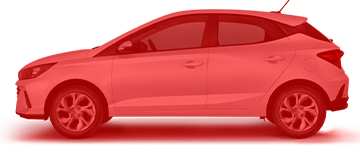
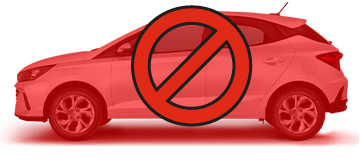
ok

diff --git a/src/Pages/DashboardPage/components/RepresentacaoCaminhaoGrande.js b/src/Pages/DashboardPage/components/RepresentacaoCaminhaoGrande.js
@@ -4,7 +4,8 @@ import * as React from 'react';
 
 export default function RepresentacaoCaminhaoGrande(props) {
 
-    const car_images = props.car_images; 
+    const car_images = props.car_images;
+    const opacity_standard = 0.5;
 
   return (
     <div style={{position: 'relative', margin: '0 auto', width: 600}}>
@@ -13,67 +14,78 @@ export default function RepresentacaoCaminhaoGrande(props) {
       position: 'absolute', 
       top: 40, 
       left: 25,
-      transform: 'rotate(5deg)'
+      transform: 'rotate(5deg)',
+      opacity: car_images[10] == 'car.png' ? opacity_standard : 1
     }} />
     <img src={car_images[11]} width={105} style={{
       position: 'absolute', 
       top: 42, 
       left: 129, 
-      transform: 'scaleX(-1)'
+      transform: 'scaleX(-1)',
+      opacity: car_images[11] == 'car.png' ? opacity_standard : 1
     }} />
     <img src={car_images[1]} width={100} style={{
       position: 'absolute', 
       top: 35, 
       left: 249,
-      transform: 'rotate(6deg)'
+      transform: 'rotate(6deg)',
+      opacity: car_images[1] == 'car.png' ? opacity_standard : 1
     }} />
     <img src={car_images[2]} width={120} style={{
       position: 'absolute', 
       top: 30, 
       left: 360, 
       transform: 'scaleX(-1) rotate(2deg)',
+      opacity: car_images[2] == 'car.png' ? opacity_standard : 1
     }} />
     <img src={car_images[3]} width={110} style={{
       position: 'absolute', 
       top: 37, 
       left: 490,
-      transform: 'rotate(7deg)'
+      transform: 'rotate(7deg)',
+      opacity: car_images[3] == 'car.png' ? opacity_standard : 1
     }} />
     <img src={car_images[4]} width={113} style={{
       position: 'absolute', 
       top: 90, 
       left: 79,
-      transform: 'rotate(2deg)'
+      transform: 'rotate(2deg)',
+      opacity: car_images[4] == 'car.png' ? opacity_standard : 1
     }} />
     <img src={car_images[5]} width={110} style={{
       position: 'absolute', 
       top: 80, 
       left: 220,
-      transform: 'rotate(9deg)'
+      transform: 'rotate(9deg)',
+      opacity: car_images[5] == 'car.png' ? opacity_standard : 1
     }} />
     <img src={car_images[7]} width={110} style={{
       position: 'absolute', 
       top: 75, 
       left: 355,
-      transform: 'rotate(9deg)'
+      transform: 'rotate(9deg)',
+      opacity: car_images[7] == 'car.png' ? opacity_standard : 1
     }} />
     <img src={car_images[9]} width={120} style={{
       position: 'absolute', 
       top: 85, 
       left: 470,
-      transform: 'rotate(5deg)'
+      transform: 'rotate(5deg)',
+      opacity: car_images[9] == 'car.png' ? opacity_standard : 1
     }} />
     <img src={car_images[6]} width={100} style={{
       position: 'absolute', 
       top: 120, 
       left: 195, 
-      transform: 'scaleX(-1)'
+      transform: 'scaleX(-1)',
+      opacity: car_images[6] == 'car.png' ? opacity_standard : 1
     }} />
     <img src={car_images[8]} width={110} style={{
       position: 'absolute', 
       top: 115, 
       left: 325, 
-      transform: 'scaleX(-1)'
+      transform: 'scaleX(-1)',
+      opacity: car_images[8] == 'car.png' ? opacity_standard : 1
     }} />
     </div>
   );

diff --git a/src/Pages/DashboardPage/components/RepresentacaoCaminhaoPequena.js b/src/Pages/DashboardPage/components/RepresentacaoCaminhaoPequena.js
@@ -4,7 +4,8 @@ import * as React from 'react';
 
 export default function RepresentacaoCaminhaoPequena(props) {
 
-    const car_images = props.car_images; 
+    const car_images = props.car_images;
+    const opacity_standard = 0.5;
 
   return (
     <div style={{position: 'relative', margin: '0 auto', width: 300}}>
@@ -13,67 +14,78 @@ export default function RepresentacaoCaminhaoPequena(props) {
       position: 'absolute', 
       top: 67, 
       left: 9,
-      transform: 'rotate(5deg)'
+      transform: 'rotate(5deg)',
+      opacity: car_images[10] == 'car.png' ? opacity_standard : 1
     }} />
     <img src={car_images[11]} width={52.5} style={{
       position: 'absolute', 
       top: 65, 
       left: 65, 
-      transform: 'scaleX(-1)'
+      transform: 'scaleX(-1)',
+      opacity: car_images[11] == 'car.png' ? opacity_standard : 1
     }} />
     <img src={car_images[1]} width={50} style={{
       position: 'absolute', 
       top: 62, 
       left: 123,
-      transform: 'rotate(6deg)'
+      transform: 'rotate(6deg)',
+      opacity: car_images[1] == 'car.png' ? opacity_standard : 1
     }} />
     <img src={car_images[2]} width={60} style={{
       position: 'absolute', 
       top: 60, 
       left: 180, 
       transform: 'scaleX(-1) rotate(2deg)',
+      opacity: car_images[2] == 'car.png' ? opacity_standard : 1
     }} />
     <img src={car_images[3]} width={55} style={{
       position: 'absolute', 
       top: 65, 
       left: 246,
-      transform: 'rotate(7deg)'
+      transform: 'rotate(7deg)',
+      opacity: car_images[3] == 'car.png' ? opacity_standard : 1
     }} />
     <img src={car_images[4]} width={56.5} style={{
       position: 'absolute', 
       top: 90, 
       left: 38,
-      transform: 'rotate(2deg)'
+      transform: 'rotate(2deg)',
+      opacity: car_images[4] == 'car.png' ? opacity_standard : 1
     }} />
     <img src={car_images[5]} width={55} style={{
       position: 'absolute', 
       top: 85, 
       left: 97,
-      transform: 'rotate(9deg)'
+      transform: 'rotate(9deg)',
+      opacity: car_images[5] == 'car.png' ? opacity_standard : 1
     }} />
     <img src={car_images[7]} width={55} style={{
       position: 'absolute', 
       top: 82, 
       left: 178,
-      transform: 'rotate(9deg)'
+      transform: 'rotate(9deg)',
+      opacity: car_images[7] == 'car.png' ? opacity_standard : 1
     }} />
     <img src={car_images[9]} width={60} style={{
       position: 'absolute', 
       top: 87, 
       left: 236,
-      transform: 'rotate(5deg)'
+      transform: 'rotate(5deg)',
+      opacity: car_images[9] == 'car.png' ? opacity_standard : 1
     }} />
     <img src={car_images[6]} width={50} style={{
       position: 'absolute', 
       top: 104, 
       left: 99, 
-      transform: 'scaleX(-1)'
+      transform: 'scaleX(-1)',
+      opacity: car_images[6] == 'car.png' ? opacity_standard : 1
     }} />
     <img src={car_images[8]} width={55} style={{
       position: 'absolute', 
       top: 102, 
       left: 162, 
-      transform: 'scaleX(-1)'
+      transform: 'scaleX(-1)',
+      opacity: car_images[8] == 'car.png' ? opacity_standard : 1
     }} />
     </div>
   );

diff --git a/src/Pages/DashboardPage/index.js b/src/Pages/DashboardPage/index.js
@@ -30,6 +30,11 @@ const initialStateFiltroDataHora = {
   date: ''
 }
 
+function convertStringToFormattedDate(dateString) {
+  const date = format(new Date(dateString), 'dd/MM/yyyy \'às\' HH:mm');
+  return date;
+}
+
 const DashboardPage = () => {
 
 	const dispatch = useDispatch();
@@ -71,12 +76,14 @@ const DashboardPage = () => {
   let last_update_time = "";
   let sensores_ativos = [];
   let sensores_splitted = [];
+  let last_seen = "Não visto";
 
   if ( traces_frota.length > 0 ) {
   
     last_row = traces_frota.at(itemActiveIndex);
     last_response = JSON.parse(last_row.response);
     const sensores = last_response.sen;
+    const frota = last_row.frota;
     sensores_splitted = sensores.split('');
   
     sensores_ativos = sensores_splitted.filter((_sensor) => {
@@ -86,6 +93,11 @@ const DashboardPage = () => {
     const item_created = last_row.created.split('+')[0];//isso é para n bugar o timezone
     const now = utcToZonedTime(new Date(), timeZone);
     let created = new Date(item_created);
+  
+    if ( frota.ultimo_recebimento != null ) {
+      const frota_last_seen = frota.ultimo_recebimento.split('+')[0];//isso é para n bugar o timezone
+      last_seen = convertStringToFormattedDate(frota_last_seen);
+    }
   
     const difference_in_hours = Math.abs(differenceInHours(created, now ));
     const difference_in_minutes = Math.abs(differenceInMinutes(created, now ));
@@ -298,8 +310,8 @@ const DashboardPage = () => {
                     paddingLeft: 10,
                     paddingBottom: 10
                   }}>
-                    Quantidade:
-                    <h4 style={{fontSize: 18, fontWeight: 'normal', margin: 0, padding: 0}}>{sensores_ativos.length}</h4>
+                    Visto em:
+                    <h4 style={{fontSize: 18, fontWeight: 'normal', margin: 0, padding: 0}}>{last_seen}</h4>
                   </Grid>
                   <Grid item xs={6} style={{
                     color: '#989ca7', 
@@ -339,7 +351,7 @@ const DashboardPage = () => {
                       paddingBottom: 23
                     }}>
                       Atualizar<br/>
-                      Atualizando automaticamente em <Timer refreshInterval={refreshInterval} buscaTracesFrota={buscaTracesFrota} /> segundos
+                      Atualiza em <Timer refreshInterval={refreshInterval} buscaTracesFrota={buscaTracesFrota} />s
                     </div>                                      
                   </Grid>
                   <Grid item xs={4} style={{
